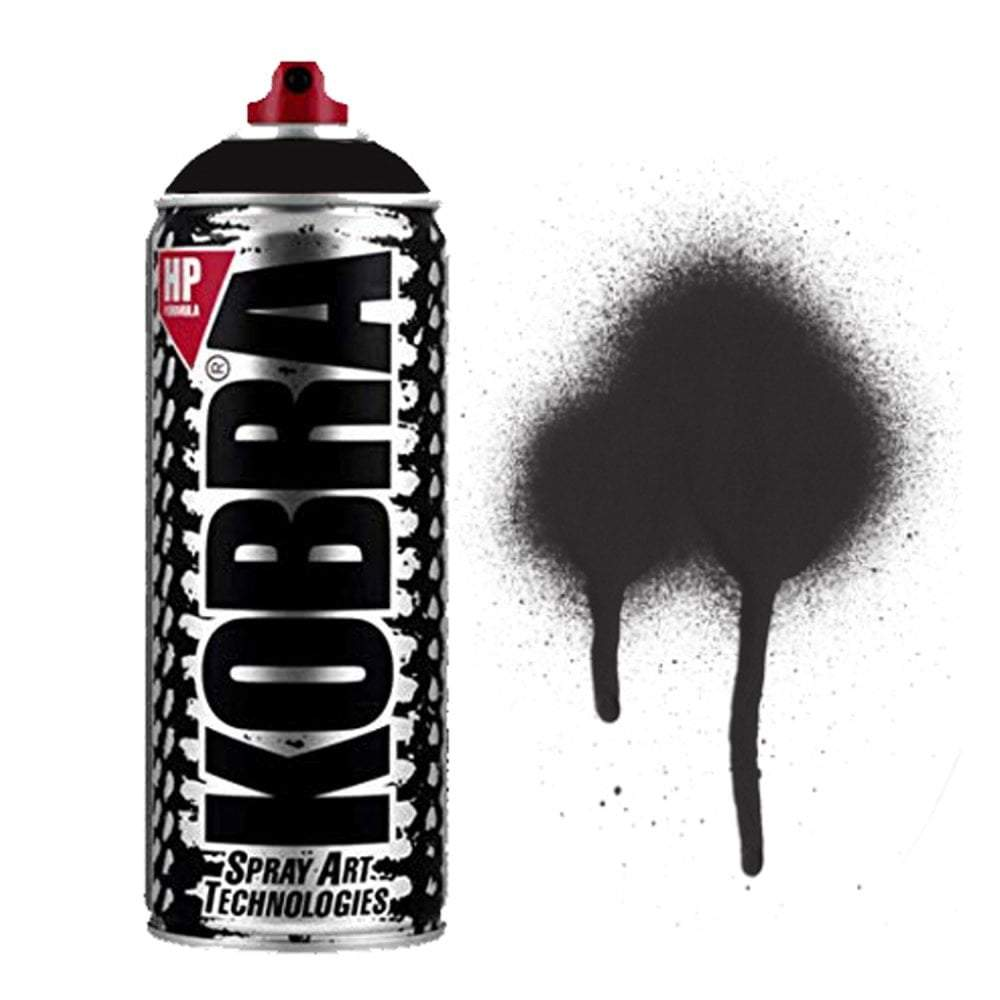
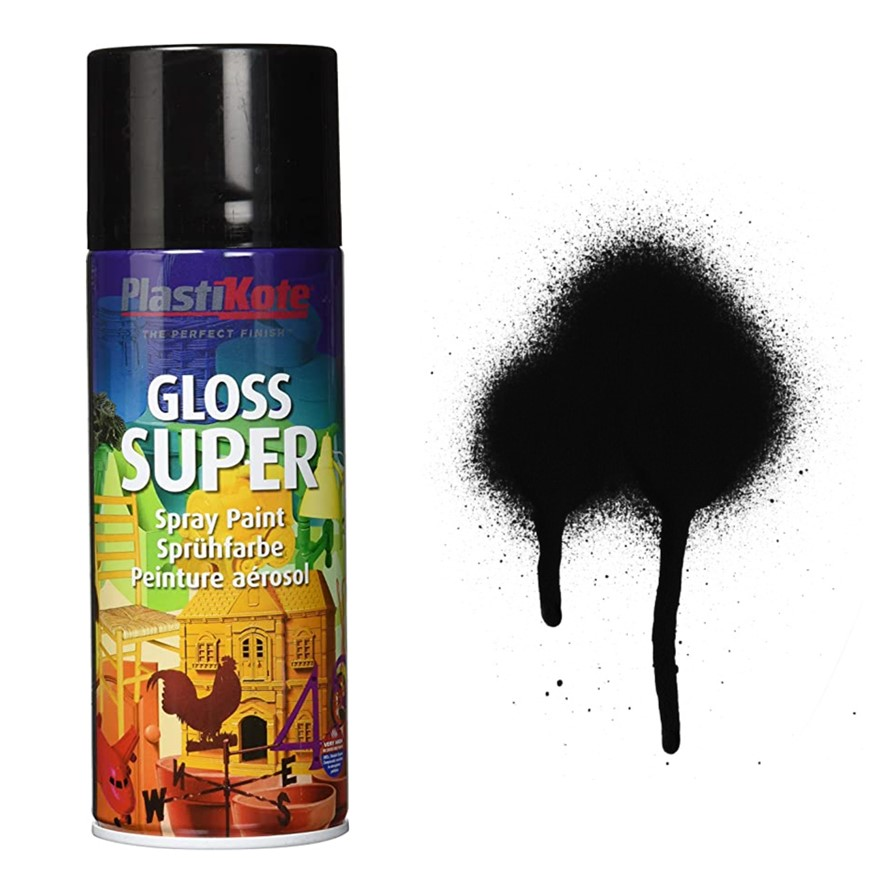
Updated supplies

diff --git a/index.html b/index.html
@@ -83,105 +83,240 @@
 	<div>
 		<a name="parts" class="anchor"></a>
 		<h1>Parts</h1>
-		<h2>Software:</h2>
-		<div class="software-div">
-			<p><img src="Assets/Images/Arduino-Logo.png" class="software-logo"><a href="https://www.arduino.cc/en/software" target="_blank" rel="noopener noreferrer" class="software-text">Arduino IDE</a></p>
-		</div>
+		<details open="open">
+			<summary class="header2">Software</summary>
+			<div class="software-div">
+				<p><a href="https://www.arduino.cc/en/software" target="_blank" rel="noopener noreferrer" class="software-text arduino"><img src="Assets/Images/Arduino-Logo.png" class="software-logo">Arduino IDE</a></p>
+				<div style="clear: both; line-height:3px;">
+		    	<br>
+				</div>
+				<p>✱ Required to upload code to the Arduino</p>
+				<p>✱ For the tutorial I used version 1.8.15</p>
+			</div>
 
-		<div style="clear: both; line-height:10px;">
-    	<br>
-		</div>
+			<div style="clear: both; line-height:10px;">
+	    	<br>
+			</div>
 
-		<div class="software-div">
-			<p><img src="Assets/Images/Android-Studio-Logo.png" class="software-logo"><a href="https://www.arduino.cc/en/software" target="_blank" rel="noopener noreferrer" class="software-text">Android Studio</a><a class="software-text">TBC</a></p>
-		</div>
+			<div class="software-div">
+				<p><a href="https://developer.android.com/studio" target="_blank" rel="noopener noreferrer" class="software-text android"><img src="Assets/Images/Android-Studio-Logo.png" class="software-logo">Android Studio</a></p>
+				<div style="clear: both; line-height:3px;">
+		    	<br>
+				</div>
+				<p>✱ Only needed if you wish to edit the Android app</p>
+				<p>✱ The app was developed in Android Studio 3.5.1</p>
+			</div>
+		</details>
 
-		<h2>Hardware:</h2>
+		<br>
+
+		<details open="open">
+			<summary class="header2">Code</summary>
+			<div class="software-div">
+				<p><a href="https://github.com/TomMakesThings/Bluetooth-Wrench-Mask/archive/refs/heads/main.zip" target="_blank" rel="noopener noreferrer" class="software-text arduino2"><img src="Assets/Images/Arduino-Uno-Art.png" class="software-logo">Arduino code</a></p>
+				<div style="clear: both; line-height:3px;">
+					<br>
+				</div>
+				<p>✱ TBC</p>
+			</div>
+
+			<div style="clear: both; line-height:10px;">
+				<br>
+			</div>
+
+			<div class="software-div">
+				<p><a href="https://github.com/TomMakesThings/Bluetooth-Wrench-Mask/raw/main/Android_App/bluetooth-controller-app.apk" target="_blank" rel="noopener noreferrer" class="software-text android2"><img src="Assets/Images/Android-Art.png" class="software-logo">Android phone app</a></p>
+				<div style="clear: both; line-height:3px;">
+					<br>
+				</div>
+				<p>✱ TBC</p>
+			</div>
+		</details>
+
+		<br>
+
+		<h2>Supplies:</h2>
 
 		<div class="row">
 			<div class="column">
 				<div>
 					<a><img src="Assets/Images/Plastic-Mask.jpg" class="part"></a>
-					<div class="part-desc">Plastic Wrench mask</div>
+					<div class="part-desc">
+						<p class="part-name">Plastic Wrench mask</p>
+						<ul class="part-list">
+							<li>If you're in the UK, try searching "watch dogs mask" on Amazon</li>
+						</ul>
+					</div>
 				</div>
 				<div>
 					<a><img src="Assets/Images/Black-Spray-Paint.jpg" class="part"></a>
-					<div class="part-desc">Black spray paint</div>
+					<div class="part-desc">
+						<p class="part-name">Black spray paint</p>
+						<ul class="part-list">
+							<li>I used PlastiKote super gloss black spray paint</li>
+							<li>You can use other paints but make sure you get one suitable for plastic</li>
+						</ul>
+					</div>
 				</div>
 				<div>
 					<a><img src="Assets/Images/Silver-Paint.png" class="part"></a>
-					<div class="part-desc">Metallic silver paint</div>
+					<div class="part-desc">
+						<p class="part-name">Metallic silver paint</p>
+						<ul class="part-list">
+							<li>I used Rust-Oleum metallic silver furniture paint as I had some spare</li>
+							<li>Normal acryclic paint works too</li>
+						</ul>
+					</div>
 				</div>
 				<div>
 					<a><img src="Assets/Images/Paintbrush.jpg" class="part"></a>
-					<div class="part-desc">Fine paintbrushes</div>
+					<div class="part-desc">
+						<p class="part-name">Fine paintbrushes</p>
+						<ul class="part-list">
+							<li>The things normal people use for painting</li>
+						</ul>
+					</div>
 				</div>
 			</div>
 			<div class="column">
 				<div>
 					<a><img src="Assets/Images/Android-Phone.jpg" class="part"></a>
-					<div class="part-desc">Android phone or tablet</div>
+					<div class="part-desc">
+						<p class="part-name">Android device</p>
+						<ul class="part-list">
+							<li>Can be either a phone or tablet</li>
+							<li>Unfortunately the app is not compatible with iOS devices (blame Apple)</li>
+						</ul>
+					</div>
 				</div>
 				<div>
 					<a><img src="Assets/Images/Arduino-Uno.jpg" class="part"></a>
-					<div class="part-desc">Arduino UNO, can genuiune or an unofficial clone board</div>
+					<div class="part-desc">
+						<p class="part-name">Arduino UNO</p>
+						<ul class="part-list">
+							<li>Doesn't matter if it's genuiune or an unofficial clone board</li>
+						</ul>
+					</div>
 				</div>
 				<div>
 					<a><img src="Assets/Images/USB-Cable.jpg" class="part"></a>
-					<div class="part-desc">USB A to USB B cable</div>
+					<div class="part-desc">
+						<p class="part-name">USB A to USB B cable</p>
+						<ul class="part-list">
+							<li>These cables are generic</li>
+							<li>Often they'll send you one with the board</li>
+						</ul>
+					</div>
 				</div>
 				<div>
 					<a><img src="Assets/Images/LED-Matrix.jpg" class="part"></a>
-					<div class="part-desc">x2 white 8x8 LED matrix with module</div>
+					<div class="part-desc">
+						<p class="part-name">x2 white 8x8 LED matrix with MAX7219 module</p>
+						<ul class="part-list">
+							<li>Note that the LED matrix is detachable from the module and is easy to swap</li>
+							<li>For me it was cheaper to buy modules with red LEDs and buy two white LED matrices separately</li>
+						</ul>
+					</div>
 				</div>
 			</div>
 			<div class="column">
 				<div>
 					<a><img src="Assets/Images/Bluetooth-Module.jpg" class="part"></a>
-					<div class="part-desc">HC-06 wireless bluetooth module, HC-05 works too</div>
+					<div class="part-desc">
+						<p class="part-name">HC-06 wireless bluetooth module</p>
+						<ul class="part-list">
+							<li>HC-05 modules work too as they're basically the same but with more functionality</li>
+						</ul>
+					</div>
 				</div>
 				<div>
 					<a><img src="Assets/Images/Jumper-Wires.jpg" class="part"></a>
-					<div class="part-desc">x14 male to female jumper wire, ideally 5 should be black</div>
+					<div class="part-desc">
+						<p class="part-name">x14 male to female jumper wire</p>
+						<ul class="part-list">
+							<li>Ideally you want at least 5 to be black as the ones between the eyes are slightly visible</li>
+						</ul>
+					</div>
 				</div>
 				<div>
 					<a><img src="Assets/Images/9V-Battery-Holder.png" class="part"></a>
-					<div class="part-desc">9V battery holder with connector lead and on/off switch</div>
+					<div class="part-desc">
+						<p class="part-name">9V battery holder with an on/off switch</p>
+						<ul class="part-list">
+							<li>Get one with a connector lead that can fit into the Arduino's barrel jack</li>
+							<li>It must have an on/off switch to control power to the Arduino</li>
+						</ul>
+					</div>
 				</div>
 				<div>
 					<a><img src="Assets/Images/9V-Battery.jpg" class="part"></a>
-					<div class="part-desc">9V battery</div>
+					<div class="part-desc">
+						<p class="part-name">9V battery</p>
+						<ul class="part-list">
+							<li>The battery will last a long time, but I recommend buying some spares just in case</li>
+							<li>I tested AA batteries too, but 8 are required to provide a high enough voltage to power the LEDs which takes up a lot more space</li>
+						</ul>
+					</div>
 				</div>
 				<div>
 					<a><img src="Assets/Images/Arduino-Case.jpg" class="part"></a>
-					<div class="part-desc">Arduino UNO plastic case</div>
+					<div class="part-desc">
+						<p class="part-name">Arduino UNO plastic case</p>
+						<ul class="part-list">
+							<li>The colour doesn't matter since it'll be inside the mask</li>
+						</ul>
+					</div>
 				</div>
 			</div>
 			<div class="column">
 				<div>
 					<a><img src="Assets/Images/Black-Elastic.png" class="part"></a>
-					<div class="part-desc">Black elastic strap</div>
+					<div class="part-desc">
+						<p class="part-name">Black elastic strap</p>
+						<ul class="part-list">
+							<li>Make sure its long enough to fit round the back of your head</li>
+						</ul>
+					</div>
 				</div>
 				<div>
 					<a><img src="Assets/Images/Velcro.jpg" class="part"></a>
-					<div class="part-desc">Velcro strip</div>
+					<div class="part-desc">
+						<p class="part-name">Velcro strip</p>
+						<ul class="part-list">
+							<li>This needs to be about the size of the battery pack</li>
+						</ul>
+					</div>
 				</div>
 				<div>
 					<a><img src="Assets/Images/Black-Tape.jpg" class="part"></a>
-					<div class="part-desc">Black electric tape</div>
+					<div class="part-desc">
+						<p class="part-name">Black electric tape</p>
+						<ul class="part-list">
+							<li>Use a tape designed insulate electrical wires</li>
+						</ul>
+					</div>
 				</div>
 				<div>
 					<a><img src="Assets/Images/Liquid-Nails.jpg" class="part"></a>
-					<div class="part-desc">Liquid nails</div>
+					<div class="part-desc">
+						<p class="part-name">Liquid nails</p>
+						<ul class="part-list">
+							<li>This stuff is pretty strong and will keep the parts in place inside the mask</li>
+							<li>Can be purchased in black</li>
+						</ul>
+					</div>
 				</div>
 				<div>
 					<a><img src="Assets/Images/Black-Paint.png" class="part"></a>
-					<div class="part-desc">Black paint</div>
+					<div class="part-desc">
+						<p class="part-name">Black paint</p>
+						<ul class="part-list">
+							<li>I used this to paint the white liquid nails</li>
+						</ul>
+					</div>
 				</div>
 			</div>
 		</div>
-
-		<h2>Other supplies:</h2>
 
 	</div>
 
@@ -225,7 +360,6 @@
 			<summary class="header2">Step 3 - Uploading Arduino Code</summary>
 			<p>Code can be uploaded to the board using Arduino IDE.
 				If you do not have this already, <a href="https://www.arduino.cc/en/software" target="_blank" rel="noopener noreferrer">download the latest version</a> from the official Arduino site.
-				For this tutorial I'm using version 1.8.15.
 				To download all required code in zip format, click the file below.
 				You can also find these files on <a href="https://github.com/TomMakesThings/Bluetooth-Wrench-Mask" target="_blank" rel="noopener noreferrer">GitHub</a>.
 			</p>

diff --git a/Stylesheets/parts.css b/Stylesheets/parts.css
@@ -1,40 +1,65 @@
 .software-logo {
   float: left;
-  height: 50px;
+  height: 60px;
   padding-right: 15px;
   margin-top: -10px;
+  margin-bottom: -10px;
 }
 
 .software-div:hover {
-  transform: scale(1.05);
+  transform: scale(1.03);
 }
 
 .software-div {
   width: -moz-fit-content;
   width: fit-content;
   transition: transform 0.5s;
+  display: inline-block;
 }
 
-.software-div p {
-  color: black;
+.software-div p, .software-div li  {
+  font-family: highpixel;
+  font-size: 18px;
+}
+
+.software-div a {
   font-family: pixel;
-  font-size: 10px;
+  font-size: 13px;
+  font-weight: bolder;
 }
 
-.software-div:hover {
+.software-text:hover {
   text-decoration: underline;
 }
 
 .software-text {
+  color: black;
   background-color: white;
   border-radius: 10px 0px;
   padding: 5px 15px 5px 15px;
+  margin-right: 18px;
   text-decoration: none;
   color: black;
 }
 
-.software-text:hover {
-  color: var(--arduinoblue);
+.arduino:hover, .arduino2:hover, .android:hover, .android2:hover {
+  color: white;
+}
+
+.arduino:hover {
+  background-color: var(--arduinoblue);
+}
+
+.arduino2:hover {
+  background-color: var(--arduinoblue2);
+}
+
+.android:hover {
+  background-color: var(--androidgreen);
+}
+
+.android2:hover {
+  background-color: var(--androidgreen2);
 }
 
 div.column img {
@@ -53,6 +78,15 @@ div.part-desc {
   background-color: white;
   color: black;
   border-radius: 20px 0px;
+}
+
+.part-name {
+  font-weight: bolder;
+}
+
+.part-list {
+  text-align: left;
+  margin-left: 10px;
 }
 
 .row {

diff --git a/Stylesheets/main.css b/Stylesheets/main.css
@@ -5,6 +5,9 @@
   --purple: #8632c7;
   --lilac: #d8b5ff;
   --arduinoblue: #19999F;
+  --arduinoblue2: #2B6B99;
+  --androidgreen: #88BD4C;
+  --androidgreen2 :#A5D12E;
 }
 
 /** Custom fonts **/
